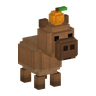
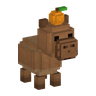
Release 0.6.34: 1.8.9 natives from Legacy Fabric, new capes/wings/pets in the Locker, nicer capybara face
- Legacy Fabric's lwjgl-platform/jinput-platform only exist as natives-<os> jars: download those
  (and honour per-OS rules) instead of a plain jar that 404s, and unpack them at launch
- The launcher catalogue was missing the 6 new capes, 6 wings and 6 pets
- Capybara: muzzle in fur colour with small nostrils instead of a dark plate

Claude-Session: https://claude.ai/code/session_018zctTUu7ts3ab3FtkJJHVo

Changed region(s): [[0.5625, 0.375, 0.8125, 0.625]]

diff --git a/src-tauri/src/cosmetics.rs b/src-tauri/src/cosmetics.rs
@@ -18,6 +18,7 @@ const WINGS: &[(&str, &str)] = &[
     ("frost", "Frost"), ("candy_cane", "Candy Cane"), ("snowflake", "Snowflake"), ("golden", "Golden"), ("celestial", "Celestial"),
     ("seraph", "Seraph"), ("void", "Void"), ("phoenix", "Phoenix"), ("monarch", "Monarch"), ("morpho", "Morpho"),
     ("pixie", "Pixie"), ("bat", "Bat"), ("emerald", "Emerald Drake"),
+    ("crystal", "Crystal Shards"), ("flame", "Flame Wings"), ("leaf", "Leafwing"), ("bone", "Bone Wings"), ("peacock", "Peacock"), ("ribbon", "Ethereal Ribbons"),
 ];
 const HALOS: &[(&str, &str)] = &[("ring", "Glowing ring"), ("double", "Double ring"), ("crown", "Spiked crown"), ("orbit", "Orbit sparks"), ("wreath", "Holly wreath")];
 const HATS: &[(&str, &str)] = &[("crown", "Crown"), ("cat_ears", "Cat ears"), ("dog_ears", "Dog ears"), ("santa", "Santa hat"), ("antlers", "Reindeer antlers"),
@@ -29,6 +30,7 @@ const PETS: &[(&str, &str)] = &[
     ("cat", "Cat"), ("frog", "Frog"), ("axolotl", "Axolotl"), ("chicken", "Chicken"), ("slime", "Slime"),
     ("goat", "Goat"), ("lamb", "Lamb"), ("pumpkin_cat", "Pumpkin Cat"), ("koala", "Koala"), ("duck", "Duck"), ("penguin", "Penguin"),
     ("coin_btc", "Bitcoin"), ("coin_eth", "Ethereum"), ("coin_ltc", "Litecoin"),
+    ("capybara", "Capybara"), ("red_panda", "Red Panda"), ("bunny", "Bunny"), ("owl", "Owl"), ("corgi", "Corgi"), ("panda", "Panda"),
 ];
 const NAMETAGS: &[(&str, &str)] = &[
     ("fire", "Fire"), ("ocean", "Ocean"), ("gold", "Gold"), ("toxic", "Toxic"), ("candy", "Candy"), ("galaxy", "Galaxy"), ("rainbow", "Rainbow"),
@@ -54,6 +56,8 @@ const CUSTOM_CAPES: &[(&str, &str)] = &[
     ("cc_fireflies", "Fireflies"), ("cc_hearts", "Hearts"),
     ("cc_sunset", "Sunset"), ("cc_sakura", "Sakura"),
     ("cc_honeycomb", "Honeycomb"), ("cc_mint", "Mint"),
+    ("cc_synthwave", "Synthwave"), ("cc_event_horizon", "Event Horizon"), ("cc_koi", "Koi Pond"), ("cc_dragon_scale", "Dragon Scale"),
+    ("cc_lanterns", "Lantern Festival"), ("cc_petal_storm", "Petal Storm"),
 ];
 
 #[derive(Serialize, Clone, Debug)]

diff --git a/src-tauri/src/fabric.rs b/src-tauri/src/fabric.rs
@@ -46,10 +46,25 @@ pub async fn install(paths: &Paths, mc: &str, pinned: Option<&str>, rep: &Report
     let mut libraries = Vec::new();
     for lib in profile["libraries"].as_array().cloned().unwrap_or_default() {
         let name = lib["name"].as_str().unwrap_or_default();
-        let Some(rel) = maven_path(name) else { continue };
+        // libraries only for another OS (Legacy Fabric lists some LWJGL ones per OS)
+        if !crate::minecraft::rules_allow(lib.get("rules"), &std::collections::HashMap::new()) {
+            continue;
+        }
         let fallback = if crate::config::is_legacy(mc) { "https://maven.legacyfabric.net/" } else { "https://maven.fabricmc.net/" };
         let base = lib["url"].as_str().unwrap_or(fallback);
         let base = if base.ends_with('/') { base.to_string() } else { format!("{base}/") };
+        // natives-only libraries (Legacy Fabric's lwjgl-platform / jinput-platform): there is no plain jar, only
+        // "<name>-natives-<os>.jar", which gets unpacked at launch like vanilla's
+        if let Some(natives) = lib.get("natives") {
+            let Some(cls) = natives.get(crate::paths::os_name()).and_then(|c| c.as_str()) else { continue };
+            let cls = cls.replace("${arch}", if cfg!(target_pointer_width = "32") { "32" } else { "64" });
+            let Some(rel) = maven_path(&format!("{name}:{cls}")) else { continue };
+            let path = paths.libraries().join(&rel);
+            files.push(Download::new(format!("{base}{rel}"), &path, None, 0));
+            libraries.push((format!("{}:{cls}", maven_key(name)), path));
+            continue;
+        }
+        let Some(rel) = maven_path(name) else { continue };
         let path = paths.libraries().join(&rel);
         files.push(Download::new(format!("{base}{rel}"), &path, lib["sha1"].as_str().map(String::from), lib["size"].as_u64().unwrap_or(0)));
         libraries.push((maven_key(name), path));

diff --git a/src-tauri/src/launch.rs b/src-tauri/src/launch.rs
@@ -232,7 +232,15 @@ pub fn spawn(paths: &Paths, plan: &Plan, on_line: impl Fn(String) + Send + Sync 
 fn extract_natives(paths: &Paths, plan: &Plan) -> Result<()> {
     let dir = paths.versions().join(&plan.vanilla.id).join("natives");
     std::fs::create_dir_all(&dir)?;
-    for (key, jar) in &plan.vanilla.libraries {
+    // vanilla's natives, with Legacy Fabric's newer LWJGL natives replacing the same ones
+    let mut natives: Vec<(&String, &PathBuf)> = Vec::new();
+    for (key, jar) in plan.vanilla.libraries.iter().chain(plan.fabric.libraries.iter()) {
+        match natives.iter().position(|(k, _)| *k == key) {
+            Some(i) => natives[i] = (key, jar),
+            None => natives.push((key, jar)),
+        }
+    }
+    for (key, jar) in natives {
         if !key.contains(":natives-") || !jar.is_file() {
             continue;
         }
